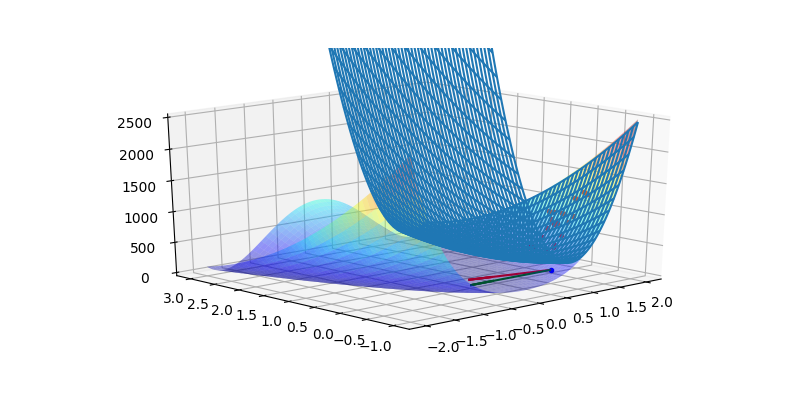
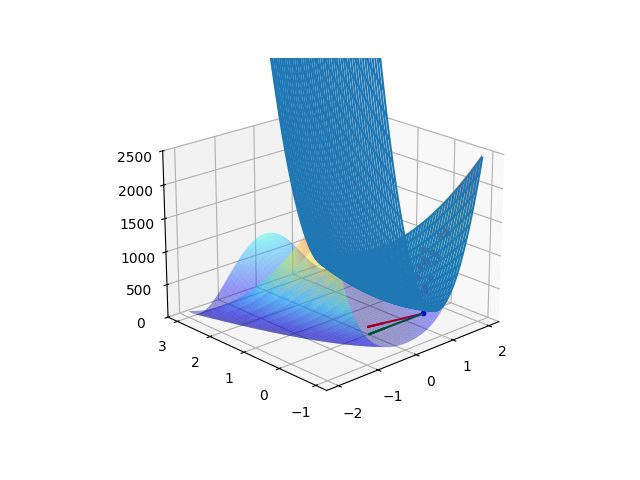
-

Changed region(s): [[0.1562, 0.12, 0.8438, 0.9], [0.8125, 0.45, 0.8438, 0.48], [0.1562, 0.69, 0.1875, 0.72]]

diff --git a/compscieng/compscieng_app22qapprox/compscieng_app22qapprox.html b/compscieng/compscieng_app22qapprox/compscieng_app22qapprox.html
@@ -278,14 +278,13 @@ class="sourceCode python"><code class="sourceCode python"><span id="cb1-1"><a hr
 <span id="cb1-41"><a href="#cb1-41" aria-hidden="true" tabindex="-1"></a>X, Y <span class="op">=</span> np.meshgrid(x, y)</span>
 <span id="cb1-42"><a href="#cb1-42" aria-hidden="true" tabindex="-1"></a>Z <span class="op">=</span> Rosenbrock(X, Y)</span>
 <span id="cb1-43"><a href="#cb1-43" aria-hidden="true" tabindex="-1"></a></span>
-<span id="cb1-44"><a href="#cb1-44" aria-hidden="true" tabindex="-1"></a>fig <span class="op">=</span> plt.figure(figsize <span class="op">=</span> (<span class="dv">8</span>,<span class="dv">4</span>))</span>
-<span id="cb1-45"><a href="#cb1-45" aria-hidden="true" tabindex="-1"></a>ax <span class="op">=</span> fig.gca(projection<span class="op">=</span><span class="st">&#39;3d&#39;</span>)</span>
-<span id="cb1-46"><a href="#cb1-46" aria-hidden="true" tabindex="-1"></a>ax.plot3D(res[:,<span class="dv">0</span>],res[:,<span class="dv">1</span>],res[:,<span class="dv">2</span>],<span class="st">&#39;r.&#39;</span>)</span>
-<span id="cb1-47"><a href="#cb1-47" aria-hidden="true" tabindex="-1"></a>ax.plot_surface(X,Y,Z,rstride <span class="op">=</span> <span class="dv">5</span>, cstride <span class="op">=</span> <span class="dv">5</span>, cmap <span class="op">=</span> <span class="st">&#39;jet&#39;</span>, alpha <span class="op">=</span> <span class="fl">.4</span>, edgecolor <span class="op">=</span> <span class="st">&#39;none&#39;</span> )</span>
-<span id="cb1-48"><a href="#cb1-48" aria-hidden="true" tabindex="-1"></a></span>
-<span id="cb1-49"><a href="#cb1-49" aria-hidden="true" tabindex="-1"></a>ax.view_init(<span class="dv">21</span>, <span class="op">-</span><span class="dv">133</span>)</span>
-<span id="cb1-50"><a href="#cb1-50" aria-hidden="true" tabindex="-1"></a></span>
-<span id="cb1-51"><a href="#cb1-51" aria-hidden="true" tabindex="-1"></a>plt.savefig(<span class="st">&#39;func_70_dfo_01.png&#39;</span>)</span></code></pre></div>
+<span id="cb1-44"><a href="#cb1-44" aria-hidden="true" tabindex="-1"></a>fig, ax <span class="op">=</span> plt.subplots(<span class="dv">1</span>, <span class="dv">1</span>, subplot_kw<span class="op">=</span>{<span class="st">&#39;projection&#39;</span>: <span class="st">&#39;3d&#39;</span>})</span>
+<span id="cb1-45"><a href="#cb1-45" aria-hidden="true" tabindex="-1"></a>ax.plot3D(res[:,<span class="dv">0</span>],res[:,<span class="dv">1</span>],res[:,<span class="dv">2</span>],<span class="st">&#39;r.&#39;</span>)</span>
+<span id="cb1-46"><a href="#cb1-46" aria-hidden="true" tabindex="-1"></a>ax.plot_surface(X,Y,Z,rstride <span class="op">=</span> <span class="dv">5</span>, cstride <span class="op">=</span> <span class="dv">5</span>, cmap <span class="op">=</span> <span class="st">&#39;jet&#39;</span>, alpha <span class="op">=</span> <span class="fl">.4</span>, edgecolor <span class="op">=</span> <span class="st">&#39;none&#39;</span> )</span>
+<span id="cb1-47"><a href="#cb1-47" aria-hidden="true" tabindex="-1"></a></span>
+<span id="cb1-48"><a href="#cb1-48" aria-hidden="true" tabindex="-1"></a>ax.view_init(<span class="dv">21</span>, <span class="op">-</span><span class="dv">133</span>)</span>
+<span id="cb1-49"><a href="#cb1-49" aria-hidden="true" tabindex="-1"></a></span>
+<span id="cb1-50"><a href="#cb1-50" aria-hidden="true" tabindex="-1"></a>plt.savefig(<span class="st">&#39;func_70_dfo_01.png&#39;</span>)</span></code></pre></div>
 <p><img src="func_70_dfo_01.png" /></p>
 <p>Şimdi üstteki örneklem noktalarını kullanarak ona en yakın karesel
 fonksiyonu bulalım,</p>
@@ -295,81 +294,85 @@ class="sourceCode python"><code class="sourceCode python"><span id="cb2-1"><a hr
 <span id="cb2-3"><a href="#cb2-3" aria-hidden="true" tabindex="-1"></a></span>
 <span id="cb2-4"><a href="#cb2-4" aria-hidden="true" tabindex="-1"></a><span class="kw">def</span> quad_interpolate(xi, yi):</span>
 <span id="cb2-5"><a href="#cb2-5" aria-hidden="true" tabindex="-1"></a>    xi <span class="op">=</span> np.hstack((xi, np.ones((<span class="dv">1</span>,<span class="bu">len</span>(xi))).T  ))</span>
-<span id="cb2-6"><a href="#cb2-6" aria-hidden="true" tabindex="-1"></a>    <span class="co">#print (xi)</span></span>
-<span id="cb2-7"><a href="#cb2-7" aria-hidden="true" tabindex="-1"></a>    D <span class="op">=</span> xi.shape[<span class="dv">1</span>]</span>
-<span id="cb2-8"><a href="#cb2-8" aria-hidden="true" tabindex="-1"></a>    <span class="bu">print</span> (D)</span>
-<span id="cb2-9"><a href="#cb2-9" aria-hidden="true" tabindex="-1"></a>    X_train <span class="op">=</span> []</span>
-<span id="cb2-10"><a href="#cb2-10" aria-hidden="true" tabindex="-1"></a>    <span class="cf">for</span> row <span class="kw">in</span> xi:</span>
-<span id="cb2-11"><a href="#cb2-11" aria-hidden="true" tabindex="-1"></a>        X_train.append([row[i]<span class="op">*</span>row[j] <span class="cf">for</span> i,j <span class="kw">in</span> itertools.product(<span class="bu">range</span>(D),<span class="bu">range</span>(D)) ])</span>
-<span id="cb2-12"><a href="#cb2-12" aria-hidden="true" tabindex="-1"></a>    X_train <span class="op">=</span> np.array(X_train)</span>
-<span id="cb2-13"><a href="#cb2-13" aria-hidden="true" tabindex="-1"></a>    <span class="bu">print</span> (X_train.shape)</span>
-<span id="cb2-14"><a href="#cb2-14" aria-hidden="true" tabindex="-1"></a>    <span class="bu">print</span> (yi.shape)</span>
-<span id="cb2-15"><a href="#cb2-15" aria-hidden="true" tabindex="-1"></a>    coef,_,_,_ <span class="op">=</span> lin.lstsq(X_train, yi)</span>
-<span id="cb2-16"><a href="#cb2-16" aria-hidden="true" tabindex="-1"></a>    <span class="cf">return</span> coef</span>
-<span id="cb2-17"><a href="#cb2-17" aria-hidden="true" tabindex="-1"></a></span>
-<span id="cb2-18"><a href="#cb2-18" aria-hidden="true" tabindex="-1"></a>xi <span class="op">=</span> res[:,[<span class="dv">0</span>,<span class="dv">1</span>]]</span>
-<span id="cb2-19"><a href="#cb2-19" aria-hidden="true" tabindex="-1"></a>yi <span class="op">=</span> res[:,[<span class="dv">2</span>]]</span>
-<span id="cb2-20"><a href="#cb2-20" aria-hidden="true" tabindex="-1"></a>coef <span class="op">=</span> quad_interpolate(xi,yi)</span>
-<span id="cb2-21"><a href="#cb2-21" aria-hidden="true" tabindex="-1"></a></span>
-<span id="cb2-22"><a href="#cb2-22" aria-hidden="true" tabindex="-1"></a><span class="bu">print</span> (coefs)</span></code></pre></div>
-<pre><code>3
+<span id="cb2-6"><a href="#cb2-6" aria-hidden="true" tabindex="-1"></a>    D <span class="op">=</span> xi.shape[<span class="dv">1</span>]</span>
+<span id="cb2-7"><a href="#cb2-7" aria-hidden="true" tabindex="-1"></a>    <span class="bu">print</span> (D)</span>
+<span id="cb2-8"><a href="#cb2-8" aria-hidden="true" tabindex="-1"></a>    X_train <span class="op">=</span> []</span>
+<span id="cb2-9"><a href="#cb2-9" aria-hidden="true" tabindex="-1"></a>    <span class="cf">for</span> row <span class="kw">in</span> xi:</span>
+<span id="cb2-10"><a href="#cb2-10" aria-hidden="true" tabindex="-1"></a>        X_train.append([row[i]<span class="op">*</span>row[j] <span class="cf">for</span> i,j <span class="kw">in</span> itertools.product(<span class="bu">range</span>(D),<span class="bu">range</span>(D)) ])</span>
+<span id="cb2-11"><a href="#cb2-11" aria-hidden="true" tabindex="-1"></a>    X_train <span class="op">=</span> np.array(X_train)</span>
+<span id="cb2-12"><a href="#cb2-12" aria-hidden="true" tabindex="-1"></a>    <span class="bu">print</span> (X_train.shape)</span>
+<span id="cb2-13"><a href="#cb2-13" aria-hidden="true" tabindex="-1"></a>    <span class="bu">print</span> (yi.shape)</span>
+<span id="cb2-14"><a href="#cb2-14" aria-hidden="true" tabindex="-1"></a>    coef,_,_,_ <span class="op">=</span> lin.lstsq(X_train, yi)</span>
+<span id="cb2-15"><a href="#cb2-15" aria-hidden="true" tabindex="-1"></a>    <span class="cf">return</span> coef</span>
+<span id="cb2-16"><a href="#cb2-16" aria-hidden="true" tabindex="-1"></a></span>
+<span id="cb2-17"><a href="#cb2-17" aria-hidden="true" tabindex="-1"></a>xi <span class="op">=</span> res[:,[<span class="dv">0</span>,<span class="dv">1</span>]]</span>
+<span id="cb2-18"><a href="#cb2-18" aria-hidden="true" tabindex="-1"></a>yi <span class="op">=</span> res[:,[<span class="dv">2</span>]]</span>
+<span id="cb2-19"><a href="#cb2-19" aria-hidden="true" tabindex="-1"></a>coef <span class="op">=</span> quad_interpolate(xi,yi)</span>
+<span id="cb2-20"><a href="#cb2-20" aria-hidden="true" tabindex="-1"></a></span>
+<span id="cb2-21"><a href="#cb2-21" aria-hidden="true" tabindex="-1"></a><span class="bu">print</span> (coef)</span></code></pre></div>
+<pre class="text"><code>3
 (20, 9)
 (20, 1)
-[[ 1549.94077306  -331.73935453 -1646.09015508]
- [ -331.73935453   108.66378197   273.04187866]
- [-1646.09015508   273.04187866  1960.85629284]]</code></pre>
+[[ 1549.94077306]
+ [ -331.73935453]
+ [-1646.09015508]
+ [ -331.73935453]
+ [  108.66378197]
+ [  273.04187866]
+ [-1646.09015508]
+ [  273.04187866]
+ [ 1960.85629284]]</code></pre>
 <div class="sourceCode" id="cb4"><pre
 class="sourceCode python"><code class="sourceCode python"><span id="cb4-1"><a href="#cb4-1" aria-hidden="true" tabindex="-1"></a>x <span class="op">=</span> np.linspace(<span class="op">-</span><span class="dv">2</span>,<span class="dv">2</span>,<span class="dv">250</span>)</span>
 <span id="cb4-2"><a href="#cb4-2" aria-hidden="true" tabindex="-1"></a>y <span class="op">=</span> np.linspace(<span class="op">-</span><span class="dv">1</span>,<span class="dv">3</span>,<span class="dv">250</span>)</span>
 <span id="cb4-3"><a href="#cb4-3" aria-hidden="true" tabindex="-1"></a>X, Y <span class="op">=</span> np.meshgrid(x, y)</span>
 <span id="cb4-4"><a href="#cb4-4" aria-hidden="true" tabindex="-1"></a>Z <span class="op">=</span> Rosenbrock(X, Y)</span>
 <span id="cb4-5"><a href="#cb4-5" aria-hidden="true" tabindex="-1"></a></span>
-<span id="cb4-6"><a href="#cb4-6" aria-hidden="true" tabindex="-1"></a>fig <span class="op">=</span> plt.figure(figsize <span class="op">=</span> (<span class="dv">8</span>,<span class="dv">4</span>))</span>
-<span id="cb4-7"><a href="#cb4-7" aria-hidden="true" tabindex="-1"></a>ax <span class="op">=</span> fig.gca(projection<span class="op">=</span><span class="st">&#39;3d&#39;</span>)</span>
-<span id="cb4-8"><a href="#cb4-8" aria-hidden="true" tabindex="-1"></a>ax.plot3D(res[:,<span class="dv">0</span>],res[:,<span class="dv">1</span>],res[:,<span class="dv">2</span>],<span class="st">&#39;r.&#39;</span>)</span>
-<span id="cb4-9"><a href="#cb4-9" aria-hidden="true" tabindex="-1"></a>ax.plot_surface(X,Y,Z,rstride <span class="op">=</span> <span class="dv">5</span>, cstride <span class="op">=</span> <span class="dv">5</span>, cmap <span class="op">=</span> <span class="st">&#39;jet&#39;</span>, alpha <span class="op">=</span> <span class="fl">.4</span>, edgecolor <span class="op">=</span> <span class="st">&#39;none&#39;</span> )</span>
-<span id="cb4-10"><a href="#cb4-10" aria-hidden="true" tabindex="-1"></a></span>
-<span id="cb4-11"><a href="#cb4-11" aria-hidden="true" tabindex="-1"></a><span class="kw">def</span> q_interp(x1,x2):</span>
-<span id="cb4-12"><a href="#cb4-12" aria-hidden="true" tabindex="-1"></a>    x <span class="op">=</span> np.array([[x1,x2,<span class="dv">1</span>]])</span>
-<span id="cb4-13"><a href="#cb4-13" aria-hidden="true" tabindex="-1"></a>    A <span class="op">=</span> coef.reshape(<span class="dv">3</span>,<span class="dv">3</span>)</span>
-<span id="cb4-14"><a href="#cb4-14" aria-hidden="true" tabindex="-1"></a>    res <span class="op">=</span> np.dot(np.dot(x,A),x.T)</span>
-<span id="cb4-15"><a href="#cb4-15" aria-hidden="true" tabindex="-1"></a>    <span class="cf">return</span> np.<span class="bu">float</span>(res)</span>
-<span id="cb4-16"><a href="#cb4-16" aria-hidden="true" tabindex="-1"></a></span>
-<span id="cb4-17"><a href="#cb4-17" aria-hidden="true" tabindex="-1"></a>Zi <span class="op">=</span> np.array([q_interp(xx,yy) <span class="cf">for</span> xx,yy <span class="kw">in</span> <span class="bu">zip</span>(X.flatten(),Y.flatten())])</span>
-<span id="cb4-18"><a href="#cb4-18" aria-hidden="true" tabindex="-1"></a>Zi <span class="op">=</span> Zi.reshape(X.shape)</span>
-<span id="cb4-19"><a href="#cb4-19" aria-hidden="true" tabindex="-1"></a>ax.plot_wireframe(X,Y,Zi)</span>
-<span id="cb4-20"><a href="#cb4-20" aria-hidden="true" tabindex="-1"></a></span>
-<span id="cb4-21"><a href="#cb4-21" aria-hidden="true" tabindex="-1"></a>coefs <span class="op">=</span> coef.reshape(<span class="dv">3</span>,<span class="dv">3</span>)</span>
-<span id="cb4-22"><a href="#cb4-22" aria-hidden="true" tabindex="-1"></a></span>
-<span id="cb4-23"><a href="#cb4-23" aria-hidden="true" tabindex="-1"></a>g <span class="op">=</span> (<span class="dv">2</span> <span class="op">*</span> np.dot(coefs[:<span class="dv">2</span>,:<span class="dv">2</span>],np.array(x0).reshape(<span class="dv">2</span>,<span class="dv">1</span>)))</span>
-<span id="cb4-24"><a href="#cb4-24" aria-hidden="true" tabindex="-1"></a></span>
-<span id="cb4-25"><a href="#cb4-25" aria-hidden="true" tabindex="-1"></a>gnorm <span class="op">=</span> g <span class="op">/</span> np.<span class="bu">sum</span>(g)</span>
-<span id="cb4-26"><a href="#cb4-26" aria-hidden="true" tabindex="-1"></a></span>
-<span id="cb4-27"><a href="#cb4-27" aria-hidden="true" tabindex="-1"></a>ax.set_zlim(<span class="dv">0</span>,<span class="dv">2500</span>)</span>
-<span id="cb4-28"><a href="#cb4-28" aria-hidden="true" tabindex="-1"></a></span>
-<span id="cb4-29"><a href="#cb4-29" aria-hidden="true" tabindex="-1"></a>ax.quiver(x0[<span class="dv">0</span>], x0[<span class="dv">1</span>], <span class="dv">0</span>, <span class="op">-</span>gnorm[<span class="dv">0</span>], <span class="op">-</span>gnorm[<span class="dv">1</span>], <span class="dv">0</span>, color<span class="op">=</span><span class="st">&#39;red&#39;</span>)</span>
-<span id="cb4-30"><a href="#cb4-30" aria-hidden="true" tabindex="-1"></a></span>
-<span id="cb4-31"><a href="#cb4-31" aria-hidden="true" tabindex="-1"></a>hess <span class="op">=</span> <span class="dv">2</span><span class="op">*</span>coefs[:<span class="dv">2</span>,:<span class="dv">2</span>]</span>
-<span id="cb4-32"><a href="#cb4-32" aria-hidden="true" tabindex="-1"></a><span class="bu">print</span> (hess)</span>
-<span id="cb4-33"><a href="#cb4-33" aria-hidden="true" tabindex="-1"></a>newton_dir <span class="op">=</span> <span class="op">-</span>np.dot(lin.inv(hess),g)</span>
-<span id="cb4-34"><a href="#cb4-34" aria-hidden="true" tabindex="-1"></a><span class="bu">print</span> (newton_dir)</span>
-<span id="cb4-35"><a href="#cb4-35" aria-hidden="true" tabindex="-1"></a></span>
-<span id="cb4-36"><a href="#cb4-36" aria-hidden="true" tabindex="-1"></a>d <span class="op">=</span> newton_dir</span>
-<span id="cb4-37"><a href="#cb4-37" aria-hidden="true" tabindex="-1"></a><span class="bu">print</span> (d)</span>
-<span id="cb4-38"><a href="#cb4-38" aria-hidden="true" tabindex="-1"></a></span>
-<span id="cb4-39"><a href="#cb4-39" aria-hidden="true" tabindex="-1"></a>ax.quiver(x0[<span class="dv">0</span>], x0[<span class="dv">1</span>], <span class="dv">0</span>, d[<span class="dv">0</span>], d[<span class="dv">1</span>], <span class="dv">0</span>, color<span class="op">=</span><span class="st">&#39;green&#39;</span>)</span>
-<span id="cb4-40"><a href="#cb4-40" aria-hidden="true" tabindex="-1"></a></span>
-<span id="cb4-41"><a href="#cb4-41" aria-hidden="true" tabindex="-1"></a>ax.plot3D([x0[<span class="dv">0</span>]], [x0[<span class="dv">1</span>]], [<span class="fl">0.0</span>], <span class="st">&#39;b.&#39;</span>)</span>
-<span id="cb4-42"><a href="#cb4-42" aria-hidden="true" tabindex="-1"></a></span>
-<span id="cb4-43"><a href="#cb4-43" aria-hidden="true" tabindex="-1"></a>ax.view_init(<span class="dv">21</span>, <span class="op">-</span><span class="dv">133</span>)</span>
-<span id="cb4-44"><a href="#cb4-44" aria-hidden="true" tabindex="-1"></a></span>
-<span id="cb4-45"><a href="#cb4-45" aria-hidden="true" tabindex="-1"></a>plt.savefig(<span class="st">&#39;func_70_dfo_02.png&#39;</span>)</span></code></pre></div>
-<pre><code>[[3099.88154613 -663.47870906]
+<span id="cb4-6"><a href="#cb4-6" aria-hidden="true" tabindex="-1"></a>fig, ax <span class="op">=</span> plt.subplots(<span class="dv">1</span>, <span class="dv">1</span>, subplot_kw<span class="op">=</span>{<span class="st">&#39;projection&#39;</span>: <span class="st">&#39;3d&#39;</span>})</span>
+<span id="cb4-7"><a href="#cb4-7" aria-hidden="true" tabindex="-1"></a>ax.plot3D(res[:,<span class="dv">0</span>],res[:,<span class="dv">1</span>],res[:,<span class="dv">2</span>],<span class="st">&#39;r.&#39;</span>)</span>
+<span id="cb4-8"><a href="#cb4-8" aria-hidden="true" tabindex="-1"></a>ax.plot_surface(X,Y,Z,rstride <span class="op">=</span> <span class="dv">5</span>, cstride <span class="op">=</span> <span class="dv">5</span>, cmap <span class="op">=</span> <span class="st">&#39;jet&#39;</span>, alpha <span class="op">=</span> <span class="fl">.4</span>, edgecolor <span class="op">=</span> <span class="st">&#39;none&#39;</span> )</span>
+<span id="cb4-9"><a href="#cb4-9" aria-hidden="true" tabindex="-1"></a></span>
+<span id="cb4-10"><a href="#cb4-10" aria-hidden="true" tabindex="-1"></a><span class="kw">def</span> q_interp(x1,x2):</span>
+<span id="cb4-11"><a href="#cb4-11" aria-hidden="true" tabindex="-1"></a>    x <span class="op">=</span> np.array([[x1,x2,<span class="dv">1</span>]])</span>
+<span id="cb4-12"><a href="#cb4-12" aria-hidden="true" tabindex="-1"></a>    A <span class="op">=</span> coef.reshape(<span class="dv">3</span>,<span class="dv">3</span>)</span>
+<span id="cb4-13"><a href="#cb4-13" aria-hidden="true" tabindex="-1"></a>    res <span class="op">=</span> np.dot(np.dot(x,A),x.T)</span>
+<span id="cb4-14"><a href="#cb4-14" aria-hidden="true" tabindex="-1"></a>    <span class="cf">return</span> <span class="bu">float</span>(res)</span>
+<span id="cb4-15"><a href="#cb4-15" aria-hidden="true" tabindex="-1"></a></span>
+<span id="cb4-16"><a href="#cb4-16" aria-hidden="true" tabindex="-1"></a>Zi <span class="op">=</span> np.array([q_interp(xx,yy) <span class="cf">for</span> xx,yy <span class="kw">in</span> <span class="bu">zip</span>(X.flatten(),Y.flatten())])</span>
+<span id="cb4-17"><a href="#cb4-17" aria-hidden="true" tabindex="-1"></a>Zi <span class="op">=</span> Zi.reshape(X.shape)</span>
+<span id="cb4-18"><a href="#cb4-18" aria-hidden="true" tabindex="-1"></a>ax.plot_wireframe(X,Y,Zi)</span>
+<span id="cb4-19"><a href="#cb4-19" aria-hidden="true" tabindex="-1"></a></span>
+<span id="cb4-20"><a href="#cb4-20" aria-hidden="true" tabindex="-1"></a>coefs <span class="op">=</span> coef.reshape(<span class="dv">3</span>,<span class="dv">3</span>)</span>
+<span id="cb4-21"><a href="#cb4-21" aria-hidden="true" tabindex="-1"></a></span>
+<span id="cb4-22"><a href="#cb4-22" aria-hidden="true" tabindex="-1"></a>g <span class="op">=</span> (<span class="dv">2</span> <span class="op">*</span> np.dot(coefs[:<span class="dv">2</span>,:<span class="dv">2</span>],np.array(x0).reshape(<span class="dv">2</span>,<span class="dv">1</span>)))</span>
+<span id="cb4-23"><a href="#cb4-23" aria-hidden="true" tabindex="-1"></a></span>
+<span id="cb4-24"><a href="#cb4-24" aria-hidden="true" tabindex="-1"></a>gnorm <span class="op">=</span> g <span class="op">/</span> np.<span class="bu">sum</span>(g)</span>
+<span id="cb4-25"><a href="#cb4-25" aria-hidden="true" tabindex="-1"></a></span>
+<span id="cb4-26"><a href="#cb4-26" aria-hidden="true" tabindex="-1"></a>ax.set_zlim(<span class="dv">0</span>,<span class="dv">2500</span>)</span>
+<span id="cb4-27"><a href="#cb4-27" aria-hidden="true" tabindex="-1"></a></span>
+<span id="cb4-28"><a href="#cb4-28" aria-hidden="true" tabindex="-1"></a>ax.quiver(x0[<span class="dv">0</span>], x0[<span class="dv">1</span>], <span class="dv">0</span>, <span class="op">-</span>gnorm[<span class="dv">0</span>], <span class="op">-</span>gnorm[<span class="dv">1</span>], <span class="dv">0</span>, color<span class="op">=</span><span class="st">&#39;red&#39;</span>)</span>
+<span id="cb4-29"><a href="#cb4-29" aria-hidden="true" tabindex="-1"></a></span>
+<span id="cb4-30"><a href="#cb4-30" aria-hidden="true" tabindex="-1"></a>hess <span class="op">=</span> <span class="dv">2</span><span class="op">*</span>coefs[:<span class="dv">2</span>,:<span class="dv">2</span>]</span>
+<span id="cb4-31"><a href="#cb4-31" aria-hidden="true" tabindex="-1"></a><span class="bu">print</span> (hess)</span>
+<span id="cb4-32"><a href="#cb4-32" aria-hidden="true" tabindex="-1"></a>newton_dir <span class="op">=</span> <span class="op">-</span>np.dot(lin.inv(hess),g)</span>
+<span id="cb4-33"><a href="#cb4-33" aria-hidden="true" tabindex="-1"></a><span class="bu">print</span> (newton_dir)</span>
+<span id="cb4-34"><a href="#cb4-34" aria-hidden="true" tabindex="-1"></a></span>
+<span id="cb4-35"><a href="#cb4-35" aria-hidden="true" tabindex="-1"></a>d <span class="op">=</span> newton_dir</span>
+<span id="cb4-36"><a href="#cb4-36" aria-hidden="true" tabindex="-1"></a><span class="bu">print</span> (d)</span>
+<span id="cb4-37"><a href="#cb4-37" aria-hidden="true" tabindex="-1"></a></span>
+<span id="cb4-38"><a href="#cb4-38" aria-hidden="true" tabindex="-1"></a>ax.quiver(x0[<span class="dv">0</span>], x0[<span class="dv">1</span>], <span class="dv">0</span>, d[<span class="dv">0</span>], d[<span class="dv">1</span>], <span class="dv">0</span>, color<span class="op">=</span><span class="st">&#39;green&#39;</span>)</span>
+<span id="cb4-39"><a href="#cb4-39" aria-hidden="true" tabindex="-1"></a></span>
+<span id="cb4-40"><a href="#cb4-40" aria-hidden="true" tabindex="-1"></a>ax.plot3D([x0[<span class="dv">0</span>]], [x0[<span class="dv">1</span>]], [<span class="fl">0.0</span>], <span class="st">&#39;b.&#39;</span>)</span>
+<span id="cb4-41"><a href="#cb4-41" aria-hidden="true" tabindex="-1"></a></span>
+<span id="cb4-42"><a href="#cb4-42" aria-hidden="true" tabindex="-1"></a>ax.view_init(<span class="dv">21</span>, <span class="op">-</span><span class="dv">133</span>)</span>
+<span id="cb4-43"><a href="#cb4-43" aria-hidden="true" tabindex="-1"></a></span>
+<span id="cb4-44"><a href="#cb4-44" aria-hidden="true" tabindex="-1"></a>plt.savefig(<span class="st">&#39;func_70_dfo_02.png&#39;</span>)</span></code></pre></div>
+<pre class="text"><code>[[3099.88154613 -663.47870906]
  [-663.47870906  217.32756394]]
-[[-1.50000000e+00]
- [ 1.77635684e-15]]
-[[-1.50000000e+00]
- [ 1.77635684e-15]]</code></pre>
+[[-1.5000000e+00]
+ [ 1.6435158e-15]]
+[[-1.5000000e+00]
+ [ 1.6435158e-15]]</code></pre>
 <p><img src="func_70_dfo_02.png" /></p>
 <p>Görüldüğü gibi en az karelerle hesaplanan <span
 class="math inline">\(A\)</span> üzerinden Hessian ve Jacobian hesabı

diff --git a/compscieng/compscieng_app22qapprox/karesel_yaklasiksallama__quadratic_approximation_.html b/compscieng/compscieng_app22qapprox/karesel_yaklasiksallama__quadratic_approximation_.html
@@ -278,14 +278,13 @@ class="sourceCode python"><code class="sourceCode python"><span id="cb1-1"><a hr
 <span id="cb1-41"><a href="#cb1-41" aria-hidden="true" tabindex="-1"></a>X, Y <span class="op">=</span> np.meshgrid(x, y)</span>
 <span id="cb1-42"><a href="#cb1-42" aria-hidden="true" tabindex="-1"></a>Z <span class="op">=</span> Rosenbrock(X, Y)</span>
 <span id="cb1-43"><a href="#cb1-43" aria-hidden="true" tabindex="-1"></a></span>
-<span id="cb1-44"><a href="#cb1-44" aria-hidden="true" tabindex="-1"></a>fig <span class="op">=</span> plt.figure(figsize <span class="op">=</span> (<span class="dv">8</span>,<span class="dv">4</span>))</span>
-<span id="cb1-45"><a href="#cb1-45" aria-hidden="true" tabindex="-1"></a>ax <span class="op">=</span> fig.gca(projection<span class="op">=</span><span class="st">&#39;3d&#39;</span>)</span>
-<span id="cb1-46"><a href="#cb1-46" aria-hidden="true" tabindex="-1"></a>ax.plot3D(res[:,<span class="dv">0</span>],res[:,<span class="dv">1</span>],res[:,<span class="dv">2</span>],<span class="st">&#39;r.&#39;</span>)</span>
-<span id="cb1-47"><a href="#cb1-47" aria-hidden="true" tabindex="-1"></a>ax.plot_surface(X,Y,Z,rstride <span class="op">=</span> <span class="dv">5</span>, cstride <span class="op">=</span> <span class="dv">5</span>, cmap <span class="op">=</span> <span class="st">&#39;jet&#39;</span>, alpha <span class="op">=</span> <span class="fl">.4</span>, edgecolor <span class="op">=</span> <span class="st">&#39;none&#39;</span> )</span>
-<span id="cb1-48"><a href="#cb1-48" aria-hidden="true" tabindex="-1"></a></span>
-<span id="cb1-49"><a href="#cb1-49" aria-hidden="true" tabindex="-1"></a>ax.view_init(<span class="dv">21</span>, <span class="op">-</span><span class="dv">133</span>)</span>
-<span id="cb1-50"><a href="#cb1-50" aria-hidden="true" tabindex="-1"></a></span>
-<span id="cb1-51"><a href="#cb1-51" aria-hidden="true" tabindex="-1"></a>plt.savefig(<span class="st">&#39;func_70_dfo_01.png&#39;</span>)</span></code></pre></div>
+<span id="cb1-44"><a href="#cb1-44" aria-hidden="true" tabindex="-1"></a>fig, ax <span class="op">=</span> plt.subplots(<span class="dv">1</span>, <span class="dv">1</span>, subplot_kw<span class="op">=</span>{<span class="st">&#39;projection&#39;</span>: <span class="st">&#39;3d&#39;</span>})</span>
+<span id="cb1-45"><a href="#cb1-45" aria-hidden="true" tabindex="-1"></a>ax.plot3D(res[:,<span class="dv">0</span>],res[:,<span class="dv">1</span>],res[:,<span class="dv">2</span>],<span class="st">&#39;r.&#39;</span>)</span>
+<span id="cb1-46"><a href="#cb1-46" aria-hidden="true" tabindex="-1"></a>ax.plot_surface(X,Y,Z,rstride <span class="op">=</span> <span class="dv">5</span>, cstride <span class="op">=</span> <span class="dv">5</span>, cmap <span class="op">=</span> <span class="st">&#39;jet&#39;</span>, alpha <span class="op">=</span> <span class="fl">.4</span>, edgecolor <span class="op">=</span> <span class="st">&#39;none&#39;</span> )</span>
+<span id="cb1-47"><a href="#cb1-47" aria-hidden="true" tabindex="-1"></a></span>
+<span id="cb1-48"><a href="#cb1-48" aria-hidden="true" tabindex="-1"></a>ax.view_init(<span class="dv">21</span>, <span class="op">-</span><span class="dv">133</span>)</span>
+<span id="cb1-49"><a href="#cb1-49" aria-hidden="true" tabindex="-1"></a></span>
+<span id="cb1-50"><a href="#cb1-50" aria-hidden="true" tabindex="-1"></a>plt.savefig(<span class="st">&#39;func_70_dfo_01.png&#39;</span>)</span></code></pre></div>
 <p><img src="func_70_dfo_01.png" /></p>
 <p>Şimdi üstteki örneklem noktalarını kullanarak ona en yakın karesel
 fonksiyonu bulalım,</p>
@@ -295,81 +294,85 @@ class="sourceCode python"><code class="sourceCode python"><span id="cb2-1"><a hr
 <span id="cb2-3"><a href="#cb2-3" aria-hidden="true" tabindex="-1"></a></span>
 <span id="cb2-4"><a href="#cb2-4" aria-hidden="true" tabindex="-1"></a><span class="kw">def</span> quad_interpolate(xi, yi):</span>
 <span id="cb2-5"><a href="#cb2-5" aria-hidden="true" tabindex="-1"></a>    xi <span class="op">=</span> np.hstack((xi, np.ones((<span class="dv">1</span>,<span class="bu">len</span>(xi))).T  ))</span>
-<span id="cb2-6"><a href="#cb2-6" aria-hidden="true" tabindex="-1"></a>    <span class="co">#print (xi)</span></span>
-<span id="cb2-7"><a href="#cb2-7" aria-hidden="true" tabindex="-1"></a>    D <span class="op">=</span> xi.shape[<span class="dv">1</span>]</span>
-<span id="cb2-8"><a href="#cb2-8" aria-hidden="true" tabindex="-1"></a>    <span class="bu">print</span> (D)</span>
-<span id="cb2-9"><a href="#cb2-9" aria-hidden="true" tabindex="-1"></a>    X_train <span class="op">=</span> []</span>
-<span id="cb2-10"><a href="#cb2-10" aria-hidden="true" tabindex="-1"></a>    <span class="cf">for</span> row <span class="kw">in</span> xi:</span>
-<span id="cb2-11"><a href="#cb2-11" aria-hidden="true" tabindex="-1"></a>        X_train.append([row[i]<span class="op">*</span>row[j] <span class="cf">for</span> i,j <span class="kw">in</span> itertools.product(<span class="bu">range</span>(D),<span class="bu">range</span>(D)) ])</span>
-<span id="cb2-12"><a href="#cb2-12" aria-hidden="true" tabindex="-1"></a>    X_train <span class="op">=</span> np.array(X_train)</span>
-<span id="cb2-13"><a href="#cb2-13" aria-hidden="true" tabindex="-1"></a>    <span class="bu">print</span> (X_train.shape)</span>
-<span id="cb2-14"><a href="#cb2-14" aria-hidden="true" tabindex="-1"></a>    <span class="bu">print</span> (yi.shape)</span>
-<span id="cb2-15"><a href="#cb2-15" aria-hidden="true" tabindex="-1"></a>    coef,_,_,_ <span class="op">=</span> lin.lstsq(X_train, yi)</span>
-<span id="cb2-16"><a href="#cb2-16" aria-hidden="true" tabindex="-1"></a>    <span class="cf">return</span> coef</span>
-<span id="cb2-17"><a href="#cb2-17" aria-hidden="true" tabindex="-1"></a></span>
-<span id="cb2-18"><a href="#cb2-18" aria-hidden="true" tabindex="-1"></a>xi <span class="op">=</span> res[:,[<span class="dv">0</span>,<span class="dv">1</span>]]</span>
-<span id="cb2-19"><a href="#cb2-19" aria-hidden="true" tabindex="-1"></a>yi <span class="op">=</span> res[:,[<span class="dv">2</span>]]</span>
-<span id="cb2-20"><a href="#cb2-20" aria-hidden="true" tabindex="-1"></a>coef <span class="op">=</span> quad_interpolate(xi,yi)</span>
-<span id="cb2-21"><a href="#cb2-21" aria-hidden="true" tabindex="-1"></a></span>
-<span id="cb2-22"><a href="#cb2-22" aria-hidden="true" tabindex="-1"></a><span class="bu">print</span> (coefs)</span></code></pre></div>
-<pre><code>3
+<span id="cb2-6"><a href="#cb2-6" aria-hidden="true" tabindex="-1"></a>    D <span class="op">=</span> xi.shape[<span class="dv">1</span>]</span>
+<span id="cb2-7"><a href="#cb2-7" aria-hidden="true" tabindex="-1"></a>    <span class="bu">print</span> (D)</span>
+<span id="cb2-8"><a href="#cb2-8" aria-hidden="true" tabindex="-1"></a>    X_train <span class="op">=</span> []</span>
+<span id="cb2-9"><a href="#cb2-9" aria-hidden="true" tabindex="-1"></a>    <span class="cf">for</span> row <span class="kw">in</span> xi:</span>
+<span id="cb2-10"><a href="#cb2-10" aria-hidden="true" tabindex="-1"></a>        X_train.append([row[i]<span class="op">*</span>row[j] <span class="cf">for</span> i,j <span class="kw">in</span> itertools.product(<span class="bu">range</span>(D),<span class="bu">range</span>(D)) ])</span>
+<span id="cb2-11"><a href="#cb2-11" aria-hidden="true" tabindex="-1"></a>    X_train <span class="op">=</span> np.array(X_train)</span>
+<span id="cb2-12"><a href="#cb2-12" aria-hidden="true" tabindex="-1"></a>    <span class="bu">print</span> (X_train.shape)</span>
+<span id="cb2-13"><a href="#cb2-13" aria-hidden="true" tabindex="-1"></a>    <span class="bu">print</span> (yi.shape)</span>
+<span id="cb2-14"><a href="#cb2-14" aria-hidden="true" tabindex="-1"></a>    coef,_,_,_ <span class="op">=</span> lin.lstsq(X_train, yi)</span>
+<span id="cb2-15"><a href="#cb2-15" aria-hidden="true" tabindex="-1"></a>    <span class="cf">return</span> coef</span>
+<span id="cb2-16"><a href="#cb2-16" aria-hidden="true" tabindex="-1"></a></span>
+<span id="cb2-17"><a href="#cb2-17" aria-hidden="true" tabindex="-1"></a>xi <span class="op">=</span> res[:,[<span class="dv">0</span>,<span class="dv">1</span>]]</span>
+<span id="cb2-18"><a href="#cb2-18" aria-hidden="true" tabindex="-1"></a>yi <span class="op">=</span> res[:,[<span class="dv">2</span>]]</span>
+<span id="cb2-19"><a href="#cb2-19" aria-hidden="true" tabindex="-1"></a>coef <span class="op">=</span> quad_interpolate(xi,yi)</span>
+<span id="cb2-20"><a href="#cb2-20" aria-hidden="true" tabindex="-1"></a></span>
+<span id="cb2-21"><a href="#cb2-21" aria-hidden="true" tabindex="-1"></a><span class="bu">print</span> (coef)</span></code></pre></div>
+<pre class="text"><code>3
 (20, 9)
 (20, 1)
-[[ 1549.94077306  -331.73935453 -1646.09015508]
- [ -331.73935453   108.66378197   273.04187866]
- [-1646.09015508   273.04187866  1960.85629284]]</code></pre>
+[[ 1549.94077306]
+ [ -331.73935453]
+ [-1646.09015508]
+ [ -331.73935453]
+ [  108.66378197]
+ [  273.04187866]
+ [-1646.09015508]
+ [  273.04187866]
+ [ 1960.85629284]]</code></pre>
 <div class="sourceCode" id="cb4"><pre
 class="sourceCode python"><code class="sourceCode python"><span id="cb4-1"><a href="#cb4-1" aria-hidden="true" tabindex="-1"></a>x <span class="op">=</span> np.linspace(<span class="op">-</span><span class="dv">2</span>,<span class="dv">2</span>,<span class="dv">250</span>)</span>
 <span id="cb4-2"><a href="#cb4-2" aria-hidden="true" tabindex="-1"></a>y <span class="op">=</span> np.linspace(<span class="op">-</span><span class="dv">1</span>,<span class="dv">3</span>,<span class="dv">250</span>)</span>
 <span id="cb4-3"><a href="#cb4-3" aria-hidden="true" tabindex="-1"></a>X, Y <span class="op">=</span> np.meshgrid(x, y)</span>
 <span id="cb4-4"><a href="#cb4-4" aria-hidden="true" tabindex="-1"></a>Z <span class="op">=</span> Rosenbrock(X, Y)</span>
 <span id="cb4-5"><a href="#cb4-5" aria-hidden="true" tabindex="-1"></a></span>
-<span id="cb4-6"><a href="#cb4-6" aria-hidden="true" tabindex="-1"></a>fig <span class="op">=</span> plt.figure(figsize <span class="op">=</span> (<span class="dv">8</span>,<span class="dv">4</span>))</span>
-<span id="cb4-7"><a href="#cb4-7" aria-hidden="true" tabindex="-1"></a>ax <span class="op">=</span> fig.gca(projection<span class="op">=</span><span class="st">&#39;3d&#39;</span>)</span>
-<span id="cb4-8"><a href="#cb4-8" aria-hidden="true" tabindex="-1"></a>ax.plot3D(res[:,<span class="dv">0</span>],res[:,<span class="dv">1</span>],res[:,<span class="dv">2</span>],<span class="st">&#39;r.&#39;</span>)</span>
-<span id="cb4-9"><a href="#cb4-9" aria-hidden="true" tabindex="-1"></a>ax.plot_surface(X,Y,Z,rstride <span class="op">=</span> <span class="dv">5</span>, cstride <span class="op">=</span> <span class="dv">5</span>, cmap <span class="op">=</span> <span class="st">&#39;jet&#39;</span>, alpha <span class="op">=</span> <span class="fl">.4</span>, edgecolor <span class="op">=</span> <span class="st">&#39;none&#39;</span> )</span>
-<span id="cb4-10"><a href="#cb4-10" aria-hidden="true" tabindex="-1"></a></span>
-<span id="cb4-11"><a href="#cb4-11" aria-hidden="true" tabindex="-1"></a><span class="kw">def</span> q_interp(x1,x2):</span>
-<span id="cb4-12"><a href="#cb4-12" aria-hidden="true" tabindex="-1"></a>    x <span class="op">=</span> np.array([[x1,x2,<span class="dv">1</span>]])</span>
-<span id="cb4-13"><a href="#cb4-13" aria-hidden="true" tabindex="-1"></a>    A <span class="op">=</span> coef.reshape(<span class="dv">3</span>,<span class="dv">3</span>)</span>
-<span id="cb4-14"><a href="#cb4-14" aria-hidden="true" tabindex="-1"></a>    res <span class="op">=</span> np.dot(np.dot(x,A),x.T)</span>
-<span id="cb4-15"><a href="#cb4-15" aria-hidden="true" tabindex="-1"></a>    <span class="cf">return</span> np.<span class="bu">float</span>(res)</span>
-<span id="cb4-16"><a href="#cb4-16" aria-hidden="true" tabindex="-1"></a></span>
-<span id="cb4-17"><a href="#cb4-17" aria-hidden="true" tabindex="-1"></a>Zi <span class="op">=</span> np.array([q_interp(xx,yy) <span class="cf">for</span> xx,yy <span class="kw">in</span> <span class="bu">zip</span>(X.flatten(),Y.flatten())])</span>
-<span id="cb4-18"><a href="#cb4-18" aria-hidden="true" tabindex="-1"></a>Zi <span class="op">=</span> Zi.reshape(X.shape)</span>
-<span id="cb4-19"><a href="#cb4-19" aria-hidden="true" tabindex="-1"></a>ax.plot_wireframe(X,Y,Zi)</span>
-<span id="cb4-20"><a href="#cb4-20" aria-hidden="true" tabindex="-1"></a></span>
-<span id="cb4-21"><a href="#cb4-21" aria-hidden="true" tabindex="-1"></a>coefs <span class="op">=</span> coef.reshape(<span class="dv">3</span>,<span class="dv">3</span>)</span>
-<span id="cb4-22"><a href="#cb4-22" aria-hidden="true" tabindex="-1"></a></span>
-<span id="cb4-23"><a href="#cb4-23" aria-hidden="true" tabindex="-1"></a>g <span class="op">=</span> (<span class="dv">2</span> <span class="op">*</span> np.dot(coefs[:<span class="dv">2</span>,:<span class="dv">2</span>],np.array(x0).reshape(<span class="dv">2</span>,<span class="dv">1</span>)))</span>
-<span id="cb4-24"><a href="#cb4-24" aria-hidden="true" tabindex="-1"></a></span>
-<span id="cb4-25"><a href="#cb4-25" aria-hidden="true" tabindex="-1"></a>gnorm <span class="op">=</span> g <span class="op">/</span> np.<span class="bu">sum</span>(g)</span>
-<span id="cb4-26"><a href="#cb4-26" aria-hidden="true" tabindex="-1"></a></span>
-<span id="cb4-27"><a href="#cb4-27" aria-hidden="true" tabindex="-1"></a>ax.set_zlim(<span class="dv">0</span>,<span class="dv">2500</span>)</span>
-<span id="cb4-28"><a href="#cb4-28" aria-hidden="true" tabindex="-1"></a></span>
-<span id="cb4-29"><a href="#cb4-29" aria-hidden="true" tabindex="-1"></a>ax.quiver(x0[<span class="dv">0</span>], x0[<span class="dv">1</span>], <span class="dv">0</span>, <span class="op">-</span>gnorm[<span class="dv">0</span>], <span class="op">-</span>gnorm[<span class="dv">1</span>], <span class="dv">0</span>, color<span class="op">=</span><span class="st">&#39;red&#39;</span>)</span>
-<span id="cb4-30"><a href="#cb4-30" aria-hidden="true" tabindex="-1"></a></span>
-<span id="cb4-31"><a href="#cb4-31" aria-hidden="true" tabindex="-1"></a>hess <span class="op">=</span> <span class="dv">2</span><span class="op">*</span>coefs[:<span class="dv">2</span>,:<span class="dv">2</span>]</span>
-<span id="cb4-32"><a href="#cb4-32" aria-hidden="true" tabindex="-1"></a><span class="bu">print</span> (hess)</span>
-<span id="cb4-33"><a href="#cb4-33" aria-hidden="true" tabindex="-1"></a>newton_dir <span class="op">=</span> <span class="op">-</span>np.dot(lin.inv(hess),g)</span>
-<span id="cb4-34"><a href="#cb4-34" aria-hidden="true" tabindex="-1"></a><span class="bu">print</span> (newton_dir)</span>
-<span id="cb4-35"><a href="#cb4-35" aria-hidden="true" tabindex="-1"></a></span>
-<span id="cb4-36"><a href="#cb4-36" aria-hidden="true" tabindex="-1"></a>d <span class="op">=</span> newton_dir</span>
-<span id="cb4-37"><a href="#cb4-37" aria-hidden="true" tabindex="-1"></a><span class="bu">print</span> (d)</span>
-<span id="cb4-38"><a href="#cb4-38" aria-hidden="true" tabindex="-1"></a></span>
-<span id="cb4-39"><a href="#cb4-39" aria-hidden="true" tabindex="-1"></a>ax.quiver(x0[<span class="dv">0</span>], x0[<span class="dv">1</span>], <span class="dv">0</span>, d[<span class="dv">0</span>], d[<span class="dv">1</span>], <span class="dv">0</span>, color<span class="op">=</span><span class="st">&#39;green&#39;</span>)</span>
-<span id="cb4-40"><a href="#cb4-40" aria-hidden="true" tabindex="-1"></a></span>
-<span id="cb4-41"><a href="#cb4-41" aria-hidden="true" tabindex="-1"></a>ax.plot3D([x0[<span class="dv">0</span>]], [x0[<span class="dv">1</span>]], [<span class="fl">0.0</span>], <span class="st">&#39;b.&#39;</span>)</span>
-<span id="cb4-42"><a href="#cb4-42" aria-hidden="true" tabindex="-1"></a></span>
-<span id="cb4-43"><a href="#cb4-43" aria-hidden="true" tabindex="-1"></a>ax.view_init(<span class="dv">21</span>, <span class="op">-</span><span class="dv">133</span>)</span>
-<span id="cb4-44"><a href="#cb4-44" aria-hidden="true" tabindex="-1"></a></span>
-<span id="cb4-45"><a href="#cb4-45" aria-hidden="true" tabindex="-1"></a>plt.savefig(<span class="st">&#39;func_70_dfo_02.png&#39;</span>)</span></code></pre></div>
-<pre><code>[[3099.88154613 -663.47870906]
+<span id="cb4-6"><a href="#cb4-6" aria-hidden="true" tabindex="-1"></a>fig, ax <span class="op">=</span> plt.subplots(<span class="dv">1</span>, <span class="dv">1</span>, subplot_kw<span class="op">=</span>{<span class="st">&#39;projection&#39;</span>: <span class="st">&#39;3d&#39;</span>})</span>
+<span id="cb4-7"><a href="#cb4-7" aria-hidden="true" tabindex="-1"></a>ax.plot3D(res[:,<span class="dv">0</span>],res[:,<span class="dv">1</span>],res[:,<span class="dv">2</span>],<span class="st">&#39;r.&#39;</span>)</span>
+<span id="cb4-8"><a href="#cb4-8" aria-hidden="true" tabindex="-1"></a>ax.plot_surface(X,Y,Z,rstride <span class="op">=</span> <span class="dv">5</span>, cstride <span class="op">=</span> <span class="dv">5</span>, cmap <span class="op">=</span> <span class="st">&#39;jet&#39;</span>, alpha <span class="op">=</span> <span class="fl">.4</span>, edgecolor <span class="op">=</span> <span class="st">&#39;none&#39;</span> )</span>
+<span id="cb4-9"><a href="#cb4-9" aria-hidden="true" tabindex="-1"></a></span>
+<span id="cb4-10"><a href="#cb4-10" aria-hidden="true" tabindex="-1"></a><span class="kw">def</span> q_interp(x1,x2):</span>
+<span id="cb4-11"><a href="#cb4-11" aria-hidden="true" tabindex="-1"></a>    x <span class="op">=</span> np.array([[x1,x2,<span class="dv">1</span>]])</span>
+<span id="cb4-12"><a href="#cb4-12" aria-hidden="true" tabindex="-1"></a>    A <span class="op">=</span> coef.reshape(<span class="dv">3</span>,<span class="dv">3</span>)</span>
+<span id="cb4-13"><a href="#cb4-13" aria-hidden="true" tabindex="-1"></a>    res <span class="op">=</span> np.dot(np.dot(x,A),x.T)</span>
+<span id="cb4-14"><a href="#cb4-14" aria-hidden="true" tabindex="-1"></a>    <span class="cf">return</span> <span class="bu">float</span>(res)</span>
+<span id="cb4-15"><a href="#cb4-15" aria-hidden="true" tabindex="-1"></a></span>
+<span id="cb4-16"><a href="#cb4-16" aria-hidden="true" tabindex="-1"></a>Zi <span class="op">=</span> np.array([q_interp(xx,yy) <span class="cf">for</span> xx,yy <span class="kw">in</span> <span class="bu">zip</span>(X.flatten(),Y.flatten())])</span>
+<span id="cb4-17"><a href="#cb4-17" aria-hidden="true" tabindex="-1"></a>Zi <span class="op">=</span> Zi.reshape(X.shape)</span>
+<span id="cb4-18"><a href="#cb4-18" aria-hidden="true" tabindex="-1"></a>ax.plot_wireframe(X,Y,Zi)</span>
+<span id="cb4-19"><a href="#cb4-19" aria-hidden="true" tabindex="-1"></a></span>
+<span id="cb4-20"><a href="#cb4-20" aria-hidden="true" tabindex="-1"></a>coefs <span class="op">=</span> coef.reshape(<span class="dv">3</span>,<span class="dv">3</span>)</span>
+<span id="cb4-21"><a href="#cb4-21" aria-hidden="true" tabindex="-1"></a></span>
+<span id="cb4-22"><a href="#cb4-22" aria-hidden="true" tabindex="-1"></a>g <span class="op">=</span> (<span class="dv">2</span> <span class="op">*</span> np.dot(coefs[:<span class="dv">2</span>,:<span class="dv">2</span>],np.array(x0).reshape(<span class="dv">2</span>,<span class="dv">1</span>)))</span>
+<span id="cb4-23"><a href="#cb4-23" aria-hidden="true" tabindex="-1"></a></span>
+<span id="cb4-24"><a href="#cb4-24" aria-hidden="true" tabindex="-1"></a>gnorm <span class="op">=</span> g <span class="op">/</span> np.<span class="bu">sum</span>(g)</span>
+<span id="cb4-25"><a href="#cb4-25" aria-hidden="true" tabindex="-1"></a></span>
+<span id="cb4-26"><a href="#cb4-26" aria-hidden="true" tabindex="-1"></a>ax.set_zlim(<span class="dv">0</span>,<span class="dv">2500</span>)</span>
+<span id="cb4-27"><a href="#cb4-27" aria-hidden="true" tabindex="-1"></a></span>
+<span id="cb4-28"><a href="#cb4-28" aria-hidden="true" tabindex="-1"></a>ax.quiver(x0[<span class="dv">0</span>], x0[<span class="dv">1</span>], <span class="dv">0</span>, <span class="op">-</span>gnorm[<span class="dv">0</span>], <span class="op">-</span>gnorm[<span class="dv">1</span>], <span class="dv">0</span>, color<span class="op">=</span><span class="st">&#39;red&#39;</span>)</span>
+<span id="cb4-29"><a href="#cb4-29" aria-hidden="true" tabindex="-1"></a></span>
+<span id="cb4-30"><a href="#cb4-30" aria-hidden="true" tabindex="-1"></a>hess <span class="op">=</span> <span class="dv">2</span><span class="op">*</span>coefs[:<span class="dv">2</span>,:<span class="dv">2</span>]</span>
+<span id="cb4-31"><a href="#cb4-31" aria-hidden="true" tabindex="-1"></a><span class="bu">print</span> (hess)</span>
+<span id="cb4-32"><a href="#cb4-32" aria-hidden="true" tabindex="-1"></a>newton_dir <span class="op">=</span> <span class="op">-</span>np.dot(lin.inv(hess),g)</span>
+<span id="cb4-33"><a href="#cb4-33" aria-hidden="true" tabindex="-1"></a><span class="bu">print</span> (newton_dir)</span>
+<span id="cb4-34"><a href="#cb4-34" aria-hidden="true" tabindex="-1"></a></span>
+<span id="cb4-35"><a href="#cb4-35" aria-hidden="true" tabindex="-1"></a>d <span class="op">=</span> newton_dir</span>
+<span id="cb4-36"><a href="#cb4-36" aria-hidden="true" tabindex="-1"></a><span class="bu">print</span> (d)</span>
+<span id="cb4-37"><a href="#cb4-37" aria-hidden="true" tabindex="-1"></a></span>
+<span id="cb4-38"><a href="#cb4-38" aria-hidden="true" tabindex="-1"></a>ax.quiver(x0[<span class="dv">0</span>], x0[<span class="dv">1</span>], <span class="dv">0</span>, d[<span class="dv">0</span>], d[<span class="dv">1</span>], <span class="dv">0</span>, color<span class="op">=</span><span class="st">&#39;green&#39;</span>)</span>
+<span id="cb4-39"><a href="#cb4-39" aria-hidden="true" tabindex="-1"></a></span>
+<span id="cb4-40"><a href="#cb4-40" aria-hidden="true" tabindex="-1"></a>ax.plot3D([x0[<span class="dv">0</span>]], [x0[<span class="dv">1</span>]], [<span class="fl">0.0</span>], <span class="st">&#39;b.&#39;</span>)</span>
+<span id="cb4-41"><a href="#cb4-41" aria-hidden="true" tabindex="-1"></a></span>
+<span id="cb4-42"><a href="#cb4-42" aria-hidden="true" tabindex="-1"></a>ax.view_init(<span class="dv">21</span>, <span class="op">-</span><span class="dv">133</span>)</span>
+<span id="cb4-43"><a href="#cb4-43" aria-hidden="true" tabindex="-1"></a></span>
+<span id="cb4-44"><a href="#cb4-44" aria-hidden="true" tabindex="-1"></a>plt.savefig(<span class="st">&#39;func_70_dfo_02.png&#39;</span>)</span></code></pre></div>
+<pre class="text"><code>[[3099.88154613 -663.47870906]
  [-663.47870906  217.32756394]]
-[[-1.50000000e+00]
- [ 1.77635684e-15]]
-[[-1.50000000e+00]
- [ 1.77635684e-15]]</code></pre>
+[[-1.5000000e+00]
+ [ 1.6435158e-15]]
+[[-1.5000000e+00]
+ [ 1.6435158e-15]]</code></pre>
 <p><img src="func_70_dfo_02.png" /></p>
 <p>Görüldüğü gibi en az karelerle hesaplanan <span
 class="math inline">\(A\)</span> üzerinden Hessian ve Jacobian hesabı
